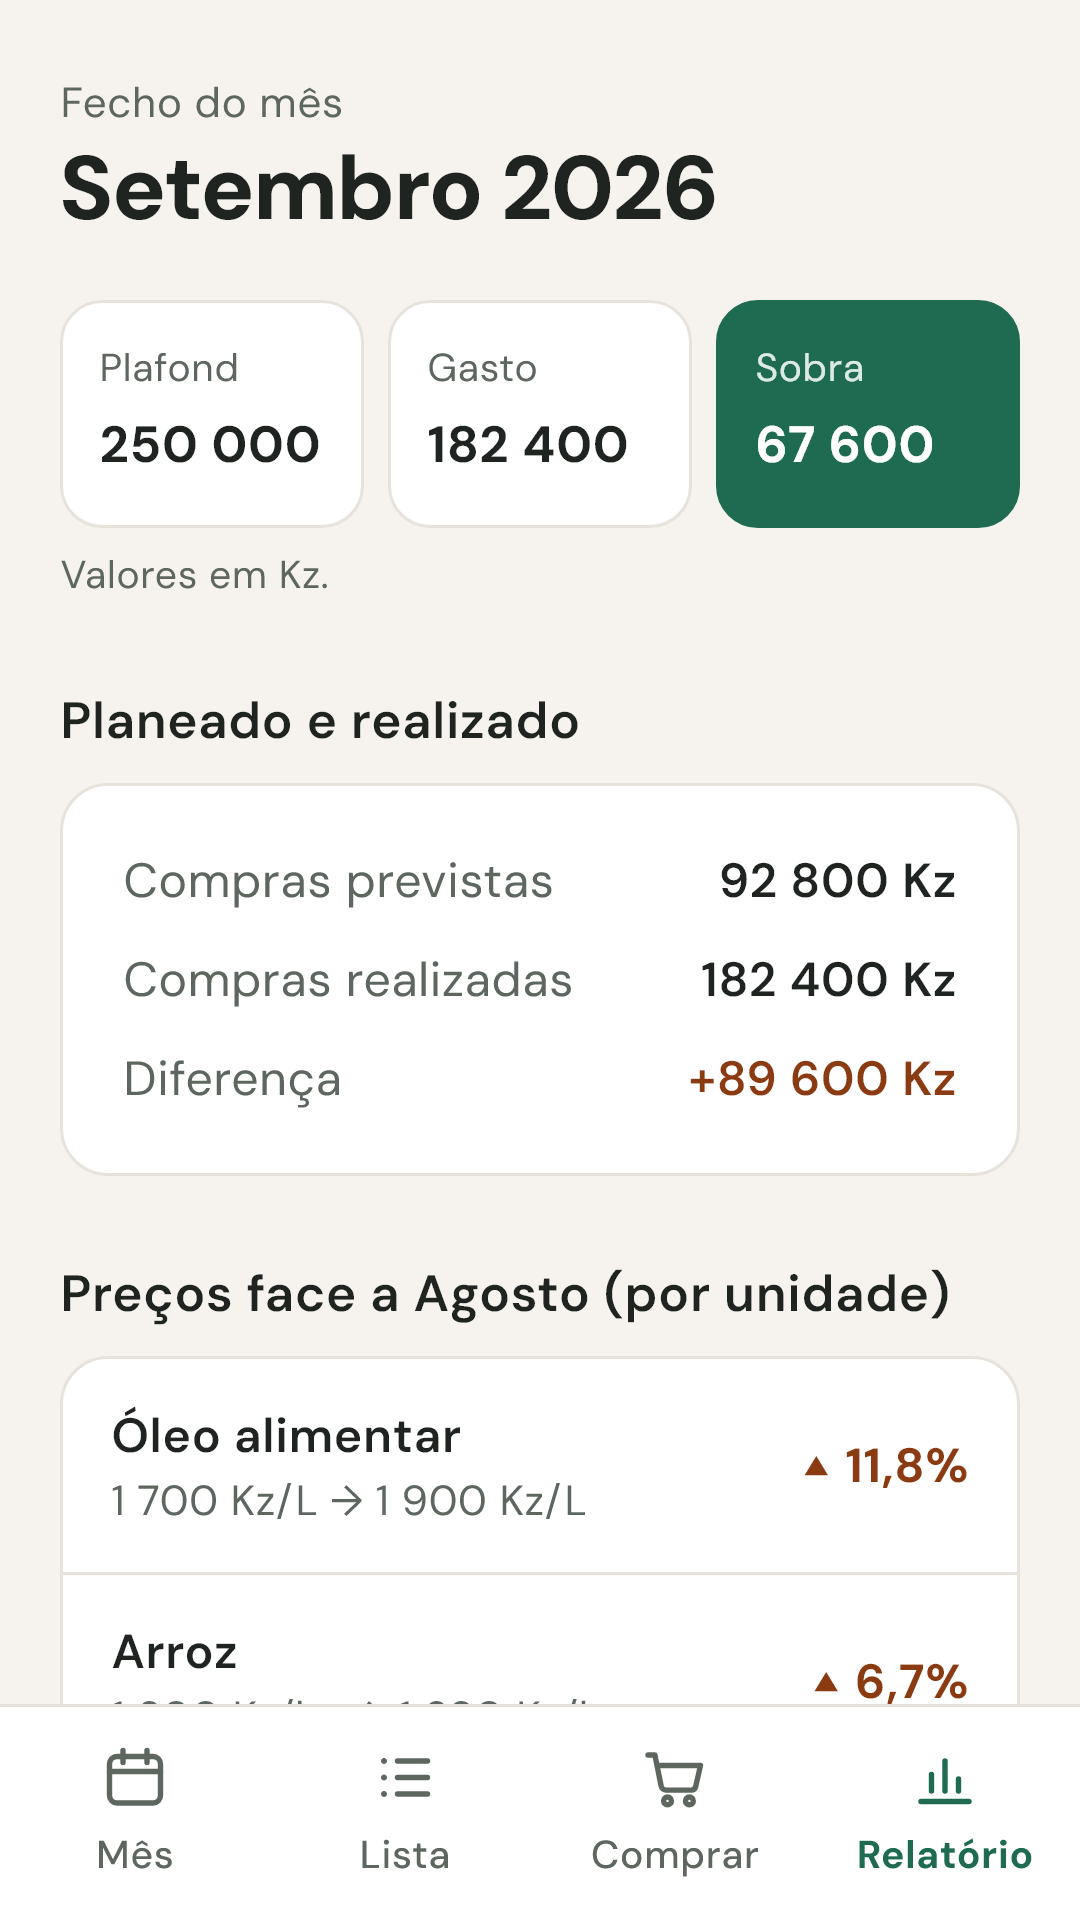
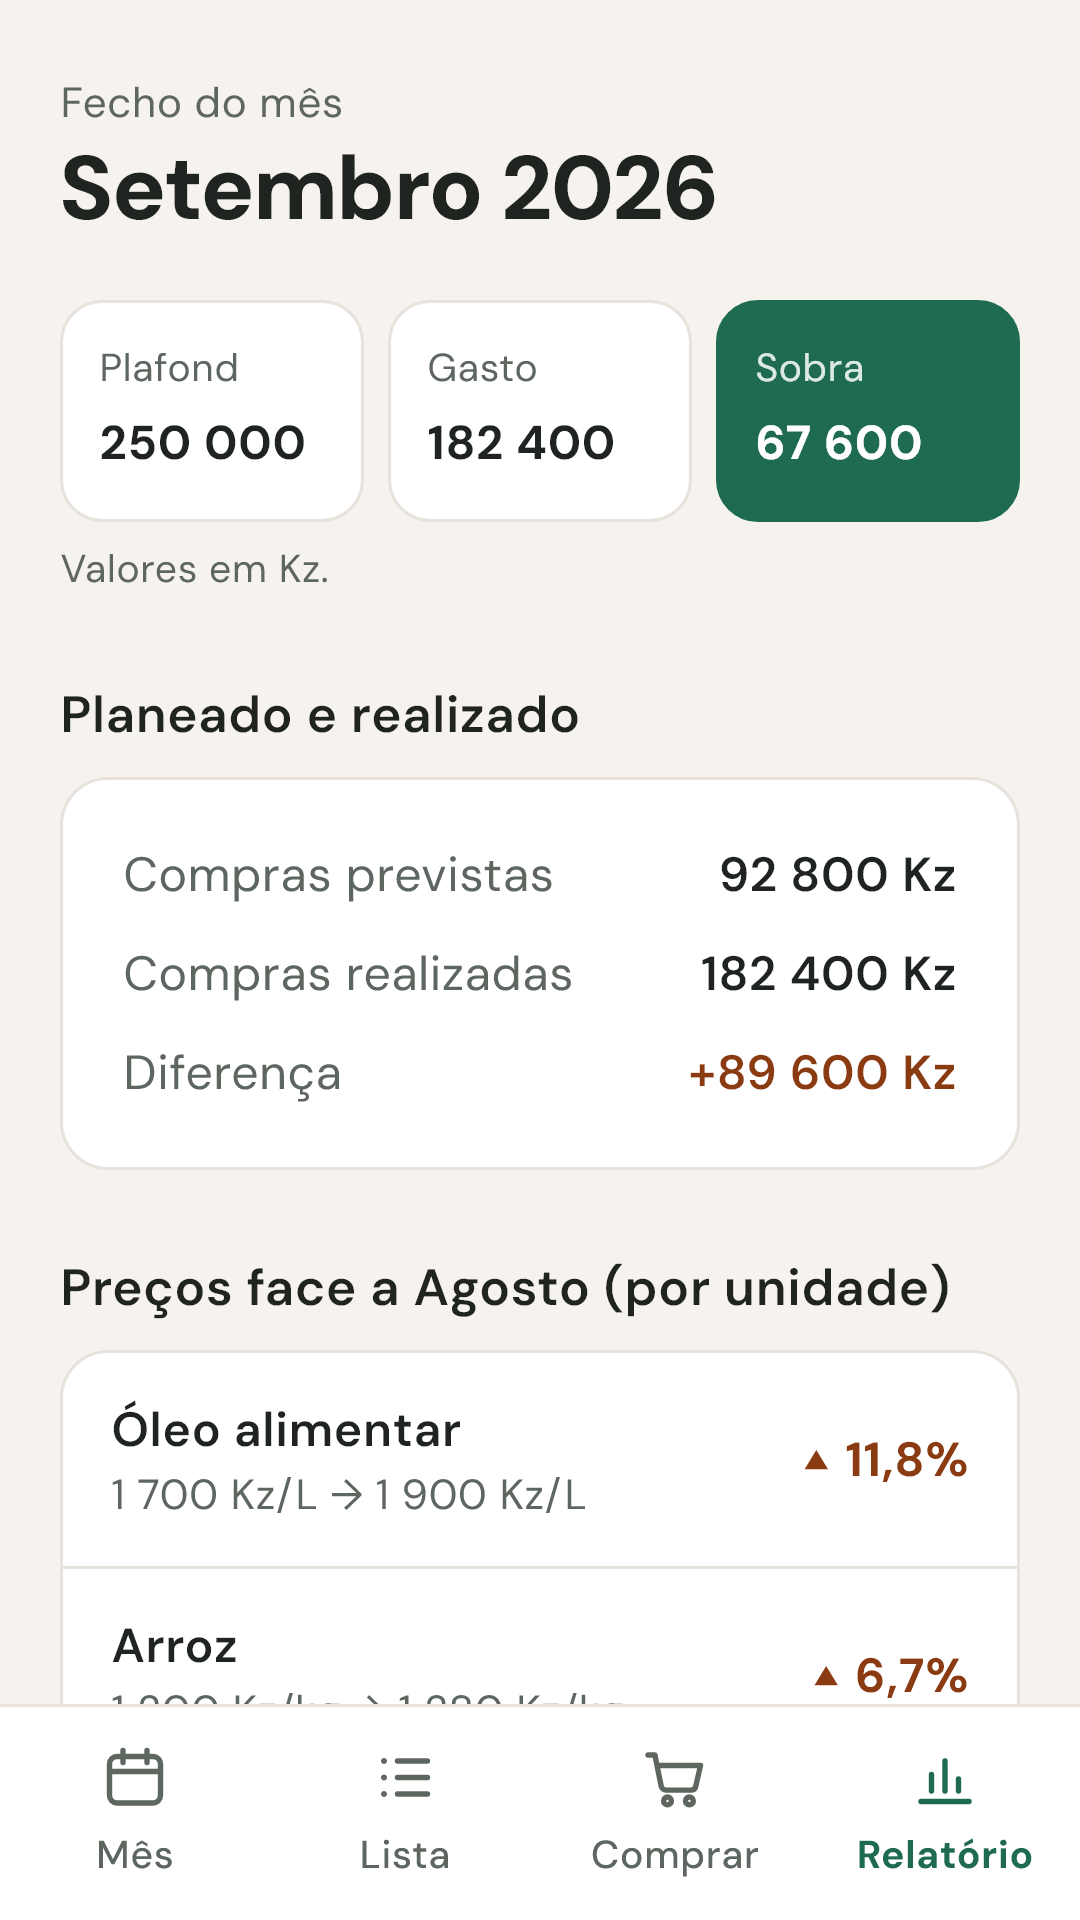
Relatório com a mesma letra nas três caixas; iPhone só passa se o percurso correr
Os números do Plafond, Gasto e Sobra usam a mesma letra, que acompanha a
largura do ecrã entre 15 e 17 px, como na versão web. No iPhone simulado,
o flutter drive chegou a sair com sucesso sem correr o percurso: agora só
conta como passado com "All tests passed" no registo, e repete quando o
percurso não chega a arrancar.

diff --git a/lib/interface/telas/relatorio.dart b/lib/interface/telas/relatorio.dart
@@ -130,7 +130,7 @@ class _NumerosDoMes extends StatelessWidget {
   final Relatorio relatorio;
   final bool fechado;
 
-  Widget _numero(String rotulo, int valor, {bool destaque = false, bool excedido = false}) {
+  Widget _numero(String rotulo, int valor, double tamanhoLetra, {bool destaque = false, bool excedido = false}) {
     final fundo = excedido ? Cores.subida : (destaque ? Cores.verde : Cores.superficie);
     final frente = destaque ? Colors.white : Cores.tinta;
     return Expanded(
@@ -155,7 +155,7 @@ class _NumerosDoMes extends StatelessWidget {
               fit: BoxFit.scaleDown,
               alignment: Alignment.centerLeft,
               child: Text(formatarNumero(valor),
-                  style: TextStyle(fontFamily: fonte, fontSize: Letra.destaque, fontWeight: FontWeight.w700, color: frente)),
+                  style: TextStyle(fontFamily: fonte, fontSize: tamanhoLetra, fontWeight: FontWeight.w700, color: frente)),
             ),
           ]),
         ),
@@ -167,17 +167,20 @@ class _NumerosDoMes extends StatelessWidget {
   Widget build(BuildContext context) {
     final r = relatorio;
     final rotuloSobra = r.ultrapassado ? 'Ultrapassou' : (fechado ? 'Sobrou' : 'Sobra');
+    // Como na versão web (clamp(15px, 4,4vw, 17px)): os três números com a mesma letra, que acompanha
+    // a largura do ecrã. Com letra grande, se ainda não couberem, encolhem dentro da caixa.
+    final tamanhoLetra = (MediaQuery.sizeOf(context).width * 0.044).clamp(15.0, Letra.destaque);
     return Column(crossAxisAlignment: CrossAxisAlignment.stretch, children: [
       Semantics(
         label: 'Resumo em Kz',
         explicitChildNodes: true,
         child: IntrinsicHeight(
           child: Row(crossAxisAlignment: CrossAxisAlignment.stretch, children: [
-            _numero('Plafond', r.plafond),
+            _numero('Plafond', r.plafond, tamanhoLetra),
             const SizedBox(width: 8),
-            _numero('Gasto', r.gasto),
+            _numero('Gasto', r.gasto, tamanhoLetra),
             const SizedBox(width: 8),
-            _numero(rotuloSobra, r.sobrou.abs(), destaque: true, excedido: r.ultrapassado),
+            _numero(rotuloSobra, r.sobrou.abs(), tamanhoLetra, destaque: true, excedido: r.ultrapassado),
           ]),
         ),
       ),
